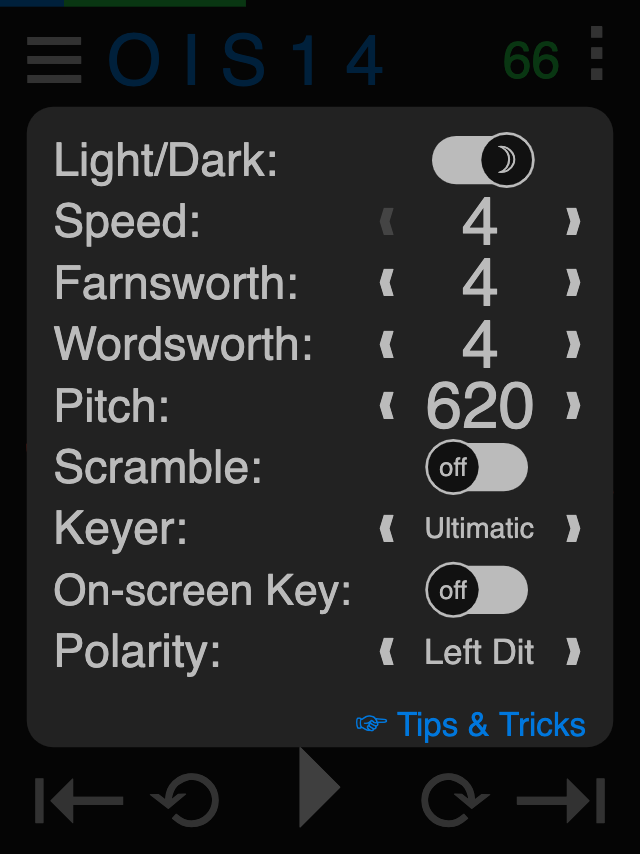
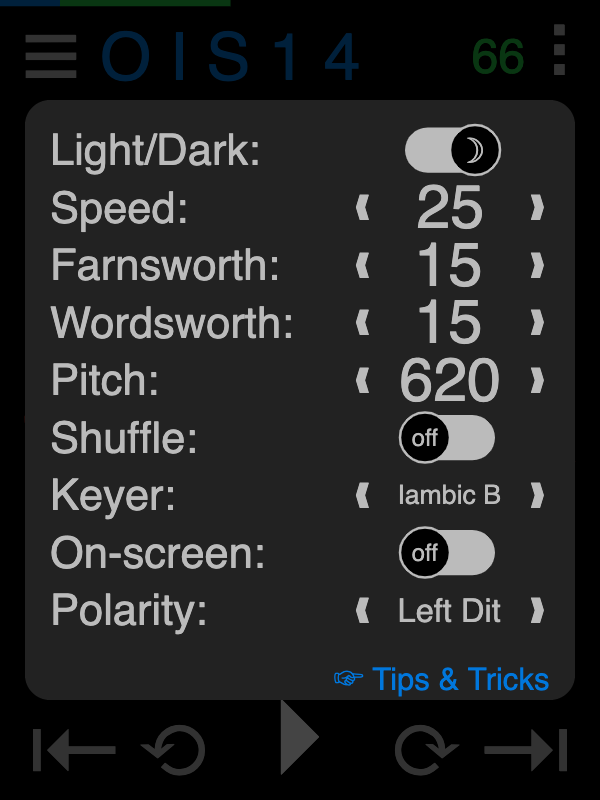
Updated help docs

diff --git a/tx/help/index.html b/tx/help/index.html
@@ -4,6 +4,7 @@
         <style>
         body {
             font-family: sans-serif;
+            text-align: center;
             }
         img.screen {
             border: 1px solid black;
@@ -11,41 +12,89 @@
         img.icon {
             vertical-align: text-bottom;
         }
+        p {
+            text-align: left;
+        }
+        ul {
+            text-align: left;
+        }
+        a {
+            color: black;
+        }
         </style>
         <meta name="viewport" content="width=device-width" />
         <link rel="shortcut icon" href="../../icons/didahdit.svg"> 
         <link rel="apple-touch-icon" href="../../icons/didahdit.svg">
-           </head>
+    </head>
     <body>
         <h1><img class="icon" src="../../icons/didahdit.svg" width="32" height="32" /> Tips & Tricks</h1>
-        <p>Use the app to practice copying and sending CW/Morse Code!</p>
+        <p>Practice copying and sending CW/Morse Code with the <a href="https://didahdit.com">DiDahDit App</a>! Explore the features below.</p>
         <img class="screen" src="main-play.gif" width="240" height="320" />
+        <p>The app is tailored to mobile, but works in any browser. Even on a watch!</p>
+        <img class="screen" src="watch.jpg" width="320" height="320" />
         <hr />
-        <h2><img class="icon" src="../../icons/rx.svg" width="32" height="32" /> Copy Training</h2>
-        <p>Press the phrase (<span style="color: #f43">red</span>) to hear the characters sounded.</p>
+        <h2 id="copy"><img class="icon" src="../../icons/rx.svg" width="32" height="32" /> Copy Training</h2>
+        <p>Press the (<span style="color: #f43">red</span>) phrase to hear (and see) the characters sounded.</p>
         <img class="screen" src="main.png" width="240" height="320" />
-        <p>Press play (▸) to sound each phrase; automatically advancing through the lesson. Phrases are hidden until sounded, then spoken and shown.</p>
+        <p>Press play (▸) to sound each phrase; automatically advancing through the lesson. Phrases are hidden until sounded, then spoken and shown. Try to copy each phrase in your head (&ldquo;head copy&rdquo;) before it&rsquo;s spoken.</p>
+        <p>Normally phrases remain hidden when you pause so that you can continue the lesson later without having revealed the next phrase. However, you may tap the question mark to show the phrase.</p>
         <img class="screen" src="main-hidden.png" width="240" height="320" />
-        <p><b>ⓘ Tip:</b> Press the phrase <i>while playing</i> to toggle hiding.</p>
+        <p><b>ⓘ Tip:</b> Press the question mark <i>while playing</i> to toggle hiding. This will highlight each character as it is sonded. While the goal is to copy in your head, sometimes it&rsquo;s helpful to initially build an association between the sounds and letters by seeing them while hearing them.</p>
         <hr />
-        <h2>Navigation</h2>
+        <h2 id="nav">Navigation</h2>
         <p>Navigate the phrases within each lesson by pressing left (⟲) and right (⟳) icons or with arrow keys on a keyboard. Navigate entire lessons by pressing left (⇤) and right (⇥) icons or with shift-arrow keys on a keyboard.</p>
         <img class="screen" src="main.png" width="240" height="320" style="width:240; height: 42; object-fit: cover; object-position: 100% -278px;" />
         <p>The current lesson (<span style="color: #07d">blue</span>) and a phrase countdown (<span style="color: #2c4">green</span>) are shown along with a thin progress bar along the top.</p>
+        <p><b>ⓘ Tip:</b> Note that the (<span style="color: #2c4">green</span>) phrase number begins at the number of phrases within the lesson and counts <i>down</i> to 1.</p>
         <img class="screen" src="main.png" width="240" height="320" style="width:240; height: 42; object-fit: cover; object-position: 100% 0;" />
         <p>Select from a menu of lessons by pressing the (blue) title.</p>
         <img class="screen" src="menu-lesson.png" width="240" height="320" />
         <p>Select from avalable sets of content by pressing the menu (☰) icon.</p>
         <img class="screen" src="menu-content.png" width="240" height="320" />
+        <h2 id="send"><img class="icon" src="../../icons/tx.svg" width="32" height="32" /> Sending Training</h2>
+        <p>Rather than listening to the phrases in the lessons, you may practice sending them. A </p>
+        <img class="screen" src="key-external.png" width="240" height="320" />
+        <p>As you key letters, they&rsquo;re shown (<span style="color: #da0">yellow</span>) below the phrase. When the correct character has been keyed, the phrase will incrementally complete. If a mistake is made, a &ldquo;dong&rdquo; sound will play. This allows you to practice keying without looking at the screen (&ldquo;head sending&rdquo;).</p>
+        <p>An external paddle or straight key may be used with the wonderful <a href="https://hamradio.solutions/vband/">USB Key Interface from Ham Radio Solutions</a> (select the Store tab).</p>
+        <p>On-screen single or dual paddles may be shown at the bottom of the screen to allow practicing without a keyboard or USB interface.</p>
+        <img class="screen" src="keyer-single.png" width="120" height="160" />
+        <img class="screen" src="key-dual.png" width="120" height="160" />
+        <p><b>ⓘ Tip:</b> Use the left/right square bracket or control keys on the keyboard as paddles (with or without on-screen).</p>
+        <p>The keyer mode and speed may be chosen <a href="#settings">in settings</a>.</p>
+        <p>The simplest is the <i>Straight</i> key, which merely sounds a tone while being pressed. The speed should be set to roughly match your sending speed for best decoding results.</p>
+        <p><b>ⓘ Tip:</b> Two dits length is the cutoff for decoding <i>Straight</i> key input. That is, a dits sent slower than half-speed will decode as dahs, while dahs sent faster than 1.5× speed will decode as dits. Adjust the <b>Speed</b> setting as needed.</b></p>
+        <p>The <i>Iambic</i> modes will send dit or dahs when a single paddle is pressed and will repeat when held. Pressing both paddles (&ldquo;squeezing&rdquo;) will produce automatically alternating dits and dahs. In <i>Iambic A</i> mode, elements will stop when a squeeze is released. In <i>Iambic B</i> mode, one more alternating element will be sent after releasing a squeeze.</p>
+        <p><i>Ultimatic</i> mode will do the same thing when a single paddle is pressed or held. However, when squeezing only the paddle pressed last will repeat. This simple scheme results in all but one letter of the alphabet being accomplished with a single squeeze! In my opinion, <i>Ultimatic</i> is the best mode (see <a href="https://youtu.be/Hn4j2nfdKNE">this video</a>).</p>
+        <p>It is common to have dits on the thumb paddle. If you&rsaquo;re left-handed, you may want to reverse the default <a href="#key"><b>Polarity</b> in settings</a>.</p>
         <h2>Settings</h2>
         <p>Press the ellipsis (⁝) icon to change settings.</p>
         <img class="screen" src="settings.png" width="240" height="320" />
+        <h3 id="light-darh">Light/Dark</h3>
         <p>The <b>Light/Dark</b> (☼/☽)</b> switch changes the color scheme throughout.</p>
-        <img class="screen" src="settings-light.png" width="240" height="320" />
-        <img class="screen" src="main-light.png" width="240" height="320" />
-        <p>The <b>Speed</b> setting determines the rate in words per minute (WPM) at which code is send and received. More precisely, it sets the unit "dit length." Dahs then are 3 dits long and space between elements is 1 dit. Normally, space between letters is 3 dits and between words is 7 dit (however, see the <b>Farnsworth</b> and <b>Wordsworth</b> settings below).</p>
-        <p>The canonical "word" is "PARIS" which is 50 dits long - including element, letter and trailing word spacing.</p>
+        <img class="screen" src="settings-light.png" width="120" height="160" />
+        <img class="screen" src="main-light.png" width="120" height="160" />
+        <h3 id="speed">Speed</h3>
+        <p>The overal <b>Speed</b> setting determines the rate in words-per-minute (WPM) at which code is send and received. More precisely, it sets the unit "dit length." Dahs then are 3 dits long and space between elements is 1 dit. Normally, space between letters is 3 dits and between words is 7 dit (however, see the <b>Farnsworth</b> and <b>Wordsworth</b> settings below).</p>
+        <p>Of course, words have varying length and so to individual charasters in Morse Code. So, the canonical word &ldquo;PARIS&rdquo; is used to compute words-per-minute; 50 dits long - including element, letter and trailing word spacing.</p>
         <img class="screen" src="paris.svg" width="100%" />
-        <h2><img class="icon" src="../../icons/tx.svg" width="32" height="32" /> Sending Training</h2>
+        <p>The <b>Farnsworth</b> setting is used to slow down the sending speed without increasing the space between elements (dit/dahs). See the <a href="#learning">Learning Correctly</a> section below to see why you&rsquo;d want to do this.</p>
+        <p>The <b>Wordsworth</b> setting also slows down the sending speed, but instead increases the space between <i>words</i>. Again, see the <a href="#learning">Learning Correctly</a> section below to see why you&rsquo;d want to do this.</p>
+        <p>All of the speed-related settings are in words-per-minute. It doesn't make sense to set <b>Farnsworth</b> faster that the overall <b>Speed</b> or to set <b>Wordsworth</b> faster than <b>Farnsworth</b> so this is not allowed in the interface.</p>
+        <p><b>ⓘ Tip:</b> If the <b>Speed</b>, <b>Farnsworth</b> and/or <b>Wordsworth</b> settings match, then adhusting one in the settings dialog will automatically adjust the matching ones <i>below</i> it.</p>
+        <h3 id="pitch">Pitch</h3>
+        <p>The <b>Pitch</b> setting (in Hz) controls the frequency of the sounded Morse Code tones.</p>
+        <h3 id="shuffle">Shuffle</h3>
+        <p>The <b>Shuffle</b> toggle indicates whether to advance through the phrases within each lesson in a shuffled order. This is useful for content that has no inherent progression (e.g. call signs).</p>
+        <p><b>ⓘ Tip:</b> Phrases are in a random but <i>consistent</i> order, much like a shuffled deck of cards. Flipping back and forth through a lesson will present the content in the same shuffled order. However, once you <i>leave</i> a lesson and return to it, the phrases are reshuffled. Note also that working from beginning to end of a lesson will still present each phrase exactly once.</p>
+        <h3 id="key">Keyer</h3>
+        <p>The <b>Keyer</b> setting chooses the keying method used. See the <a href="#send">Sending</a> section above for a description of the keyer modes.</p>
+        <p>The <b>On-screen</b> setting shows/hides on-screen paddles or straight key.</p>
+        <p>The <b>Polarity</b> setting determines whether dit are on the left or right when using dual level paddles.</p>
+        <h2 id="learn">Learning Correctly</h2>
+        <p>You may have notices that nowhere in the app do you see dits and dahs written. Morse Code is an <i>audible</i> language. You should learn to recognize the <i>sounds</i> of the characters.</p>
+        <p>You should not count the dits and dahs. The complete sound of each character should be recognized as a whole. If necessary, turn the <b>Speed</b> up until counting becomes impossible (e.g. 25+ WPM). If you can't copy at this speed then turn the effective speed down with the <b>Farnsworth</b> setting.</p>
+        <p>Eventually, you will begin to recognize entire <i>words</i> as a whole; especially common ones such as &ldquo;CQ&rdquo;, &ldquo;TU&rdquo; and &ldquo;RST&rdquo;. You may find that <b>Farnsworth</b> spacing makes recognition of words difficult. At this point, try turning up the <b>Farnsworth</b> speed to match the overall <b>Speed</b> and instead adjust down the Wordsworth setting.</p>
+        <p>For further information on using dual lever paddles, see <a href="https://youtu.be/Hn4j2nfdKNE">this video on squeeze keying</a>.</p>
+        <h5>Have fun! <a href="https://www.qrz.com/db/k7zcw">K7ZCW</a> 73 dit dit</h5>
     </body>
 </html>

diff --git a/tx/index.html b/tx/index.html
@@ -1151,12 +1151,12 @@
                     drawUpDownControl('Wordsworth:', 'wordsworth', getWordsworth(), 1, 50, top + padding + rowHeight * 3);
                     drawUpDownControl('Pitch:', 'pitch', getPitch(), 100, 900, top + padding + rowHeight * 4);
                     var scramble = getScramble();
-                    drawSwitch('scramble', 'Scramble:', scramble ? 'on' : 'off', scramble, top + rowHeight * 5);
+                    drawSwitch('scramble', 'Shuffle:', scramble ? 'on' : 'off', scramble, top + rowHeight * 5);
                     var keyerMode = getKeyerMode();
                     var keyerName = keyerMode == 'A' ? 'Iambic A' : keyerMode == 'B' ? 'Iambic B' : keyerMode == 'U' ? 'Ultimatic' : 'Straight';
                     drawGenericUpDownControl('Keyer:', 'keyer', keyerName, true, true, top + padding + rowHeight * 6);
                     var screenkey = getOnScreenKey();
-                    drawSwitch('screenkey', 'On-screen Key:', screenkey ? 'on' : 'off', screenkey, top + rowHeight * 7);
+                    drawSwitch('screenkey', 'On-screen:', screenkey ? 'on' : 'off', screenkey, top + rowHeight * 7);
                     var polarity = getPolarity() == 'ditdah' ? 'Left Dit' : 'Right Dit';
                     drawGenericUpDownControl('Polarity:', 'polarity', polarity, true, true, top + padding + rowHeight * 8);
                     drawButton(
